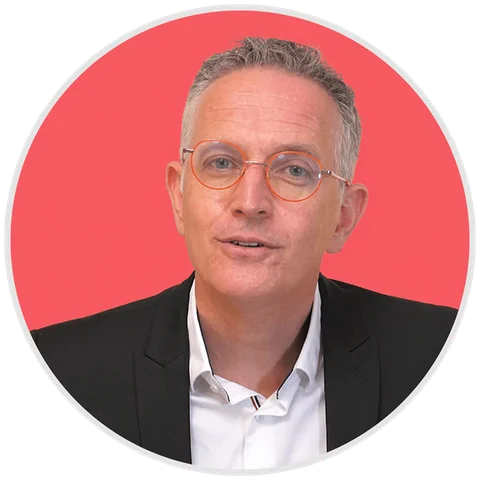
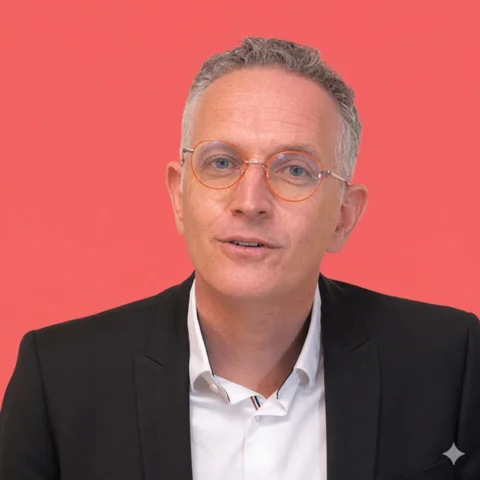
feat: refresh partners, speaker roster, and AlphaEdge talk
Replaces Gaël Brisson's speaker photo, removes SII, and adds Externatic (Silver) as a partner. Caps Platinum at 4 and Gold at 6 slots to match the confirmed roster, fixes the desktop grid so those rows no longer leave an empty tile, and enlarges the non-co-organizer Platinum logos. Also refreshes Théo Hubert's AlphaEdge talk pitch and speaker bio (Président title, teaching/mentoring record, AlphaPen patent and prototype figures, 2017 entrepreneurial start).

diff --git a/tests/components/platinum-sponsors.test.ts b/tests/components/platinum-sponsors.test.ts
@@ -5,20 +5,18 @@ import PartnersShowcase from '../../src/components/PartnersShowcase.astro';
 import PlatinumSponsors from '../../src/components/PlatinumSponsors.astro';
 
 describe('PlatinumSponsors.astro', () => {
-  it('keeps the co-organizer separate from the four Platinum partner logos', async () => {
+  it('keeps the co-organizer separate from the three Platinum partner logos', async () => {
     const container = await AstroContainer.create();
     const html = await container.renderToString(PlatinumSponsors);
 
     expect(html).toContain('aria-label="Partenaires Platinum"');
     expect(html).not.toContain('<h3');
-    expect(html.match(/<li/g)).toHaveLength(4);
+    expect(html.match(/<li/g)).toHaveLength(3);
     expect(html).not.toContain('Logo Région Pays de la Loire');
     expect(html).toContain('alt="Logo Clever Cloud"');
     expect(html).toContain('alt="Logo Swiftask"');
     expect(html).toContain('alt="Logo ADN Ouest"');
-    expect(html).toContain('alt="Logo SII"');
     expect(html).toContain('src="/logos/adn-ouest.png"');
-    expect(html).toContain('src="/logos/SII_white-optimized.svg"');
   });
 
   it('keeps the Platinum logos attached to the scrolling hero title', async () => {

diff --git a/tests/components/partners-showcase.test.ts b/tests/components/partners-showcase.test.ts
@@ -32,7 +32,8 @@ describe('PartnersShowcase.astro', () => {
     expect(html).toContain('alt="Logo Jems"');
     expect(html).toContain('alt="Logo Cross Data"');
     expect(html).toContain('alt="Logo _icilundi"');
-    expect(html).toContain('alt="Logo SII"');
+    expect(html).toContain('alt="Logo Externatic"');
+    expect(html).not.toContain('alt="Logo SII"');
     expect(html).not.toContain('alt="Logo Mistral AI"');
     expect(html).not.toContain('alt="Logo NVIDIA"');
   });
@@ -53,7 +54,8 @@ describe('PartnersShowcase.astro', () => {
     expect(html).toContain('href="https://www.jems-group.com/fr/"');
     expect(html).toContain('href="https://www.crossdata.tech/"');
     expect(html).toContain('href="https://icilundi.fr/"');
-    expect(html).toContain('href="https://sii-group.com/"');
+    expect(html).toContain('href="https://www.externatic.fr/"');
+    expect(html).not.toContain('href="https://sii-group.com/"');
     expect(html).toContain('aria-label="Visiter le site de Région Pays de la Loire"');
     expect(html).toContain('target="_blank"');
     expect(html).toContain('rel="noopener noreferrer"');

diff --git a/tests/content.test.ts b/tests/content.test.ts
@@ -65,14 +65,13 @@ describe('content collections', () => {
     ]);
   });
 
-  it('places the five confirmed organizations among the Platinum partners', async () => {
+  it('places the four confirmed organizations among the Platinum partners', async () => {
     const partners = await getCollection('partners');
     const platinum = partners.filter((partner) => partner.data.tier === 'platinum');
     expect(platinum.map((partner) => partner.data.name).sort()).toEqual([
       'ADN Ouest',
       'Clever Cloud',
       'Région Pays de la Loire',
-      'SII',
       'Swiftask',
     ]);
   });

diff --git a/src/lib/speakers.ts b/src/lib/speakers.ts
@@ -30,7 +30,7 @@ export const SPEAKER_PORTRAIT_DIMENSIONS: Record<string, { width: number; height
   'constance-nebbula': { width: 832, height: 832 },
   'david-leaurant': { width: 800, height: 800 },
   'florian-herveou': { width: 600, height: 600 },
-  'gael-brisson': { width: 800, height: 800 },
+  'gael-brisson': { width: 1024, height: 1024 },
   'julien-lesaicherre': { width: 800, height: 800 },
   'nicolas-martignole': { width: 1448, height: 1086 },
   'jean-baptiste-kempf': { width: 1200, height: 1801 },

diff --git a/src/lib/partners.ts b/src/lib/partners.ts
@@ -1,5 +1,5 @@
 export const PARTNER_TIER_CAPACITIES = {
-  platinum: 5,
-  gold: 7,
+  platinum: 4,
+  gold: 6,
   silver: null,
 } as const;

diff --git a/src/content/speakers/theo-hubert.md b/src/content/speakers/theo-hubert.md
@@ -1,26 +1,33 @@
 ---
 name: "Théo Hubert"
-role: "Cofondateur & CTO"
+role: "Cofondateur, Président & CTO"
 company: "AlphaEdge"
-bio: "Cofondateur et CTO d’AlphaEdge, Théo Hubert conçoit des modèles d’IA spécialisés, compacts et déployables au plus près des usages."
+bio: "Cofondateur, Président et CTO d’AlphaEdge, Théo Hubert conçoit des modèles d’IA spécialisés, compacts et déployables au plus près des usages."
 profile:
-  - "Ingénieur de formation et entrepreneur, Théo Hubert explore depuis plusieurs années la façon de rendre l’IA plus utile et plus accessible. Après avoir travaillé sur AlphaPen, un stylo connecté qui numérise l’écriture manuscrite, il cofonde AlphaEdge avec Fabien Fasson pour appliquer cette expertise à des systèmes d’IA spécialisés."
+  - "Ingénieur de formation et entrepreneur, Théo Hubert explore depuis plusieurs années la façon de rendre l’IA plus utile et plus accessible. Après avoir travaillé sur AlphaPen, un stylo connecté qui numérise l’écriture manuscrite et dont il est l’auteur du brevet, il cofonde AlphaEdge avec Fabien Fasson pour appliquer cette expertise à des systèmes d’IA spécialisés."
   - "Chez AlphaEdge, il dirige la stratégie technique et la R&D. L’équipe développe des modèles experts conçus pour des cas d’usage précis, avec une attention portée à la latence, à la sobriété de l’infrastructure et au contrôle des données."
   - "Son parcours relie conception de produits, ingénierie et recherche appliquée. Il défend une IA capable de mieux apprendre avec des modèles plus petits, plutôt que de mobiliser systématiquement des modèles généralistes toujours plus volumineux."
+  - "Entrepreneur depuis 2017 et lauréat de quatre concours de startups, il partage aussi son expérience : plus de 800 heures de cours dispensées et plus de 110 étudiants entrepreneurs accompagnés en mentoring. Ingénieur informatique et réseaux de formation, spécialisé en IoT, il a complété son parcours par une formation Stanford en machine learning et deep learning."
 genaiLegitimacy: "Théo Hubert travaille directement sur la spécialisation et la compression de modèles. Lors d’une audition du CESER des Pays de la Loire en 2025, il a présenté une approche consistant à réduire la taille des modèles et à les spécialiser afin de les déployer plus près de l’utilisateur. Ce travail répond aux contraintes très concrètes de performance, de coût, de consommation énergétique et de confidentialité des données."
 careerHighlights:
   - period: "Depuis 2023"
-    title: "Cofondateur et CTO d’AlphaEdge"
+    title: "Cofondateur, Président et CTO d’AlphaEdge"
     description: "Direction technique et R&D d’une entreprise qui conçoit des modèles d’IA experts, efficaces et adaptés à des usages industriels."
+  - period: "Depuis 2019"
+    title: "Vision technique & mentoring"
+    description: "Pilote la vision technologique de ses projets et transmet son expertise via l’enseignement et le mentoring d’étudiants entrepreneurs."
   - period: "Depuis 2020"
     title: "Fondateur d’AlphaPen"
-    description: "Conception d’un stylo connecté capable de transformer l’écriture manuscrite en données numériques, avec une forte composante de recherche et développement."
+    description: "Conception d’un stylo connecté capable de transformer l’écriture manuscrite en données numériques, protégée par un brevet ; plus de 1 000 prototypes développés, 5 modèles d’IA et un dataset de données manuscrites françaises créés."
+  - period: "Depuis 2017"
+    title: "Parcours entrepreneurial"
+    description: "Point de départ d’un parcours entrepreneurial marqué par quatre concours de startups remportés."
   - period: "2025"
     title: "Audition au CESER des Pays de la Loire"
     description: "Présentation d’une approche fondée sur des modèles compacts et spécialisés, pensés pour réduire les besoins de calcul et rapprocher les traitements des utilisateurs."
 companies:
   - name: "AlphaEdge"
-    relationship: "Cofondateur et CTO depuis 2023"
+    relationship: "Cofondateur, Président et CTO depuis 2023"
     description: "AlphaEdge développe des systèmes d’IA experts et efficients pour des usages professionnels. Son approche associe modèles spécialisés, faible latence, sobriété de l’infrastructure et maîtrise des données."
     website: "https://alphaedge-ai.com/"
 photo: "/speakers/theo-hubert-optimized.webp"

diff --git a/src/content/sessions/slm-compression-modeles.md b/src/content/sessions/slm-compression-modeles.md
@@ -1,7 +1,7 @@
 ---
-title: "Mon modèle consomme trop de GPUs"
+title: "Mon modèle ne tient pas sur une puce embarquée"
 subtitle: "Small language models, fine-tuning & compression"
-seoTitle: "Mon modèle consomme trop de GPUs"
+seoTitle: "Mon modèle ne tient pas sur une puce embarquée"
 track: "tech"
 startTime: "11:15"
 durationMinutes: 40
@@ -15,6 +15,6 @@ illustration:
   variant: "evaluation"
 ---
 
-Comment concevoir des Small Language Models spécialisés et compresser les modèles pour les déployer plus près des usages, avec moins de coûts, de latence et de consommation.
+Aujourd’hui, l’IA est majoritairement consommée dans le Cloud. Mais peut-on faire autrement ? L’objectif de cette prise de parole est de montrer concrètement comment faire tourner localement un modèle de langage performant, sur un PC ou une carte comme la Jetson Nano.
 
-Cette session détaille les techniques concrètes, quantification, distillation, pruning, qui permettent de réduire la taille d'un modèle sans sacrifier ses performances.
+Sur un environnement contraint, réduire la taille arbitrairement d’un modèle ne suffit pas. Nous verrons comment les SLM (Small Language Models) permettent de conserver de bonnes performances grâce à différentes approches : trimming, quantification, pruning et fine-tuning. Nous irons ensuite plus loin en comparant ces techniques d’optimisation à une autre approche : concevoir des architectures nativement pensées pour l’Edge, et donc adaptées dès l’origine aux contraintes de calcul.

diff --git a/src/content/partners/externatic.md b/src/content/partners/externatic.md
@@ -1,0 +1,10 @@
+---
+name: "Externatic"
+tier: "silver"
+website: "https://www.externatic.fr/"
+logo: "/logos/externatic-optimized.webp"
+logoWidth: 1001
+logoHeight: 677
+order: 15
+description: "Externatic est un cabinet de recrutement informatique qui met en relation talents tech et entreprises partout en France, avec une approche fondée sur la connaissance fine des marchés locaux et un sourcing par réseau humain plutôt que transactionnel."
+---
